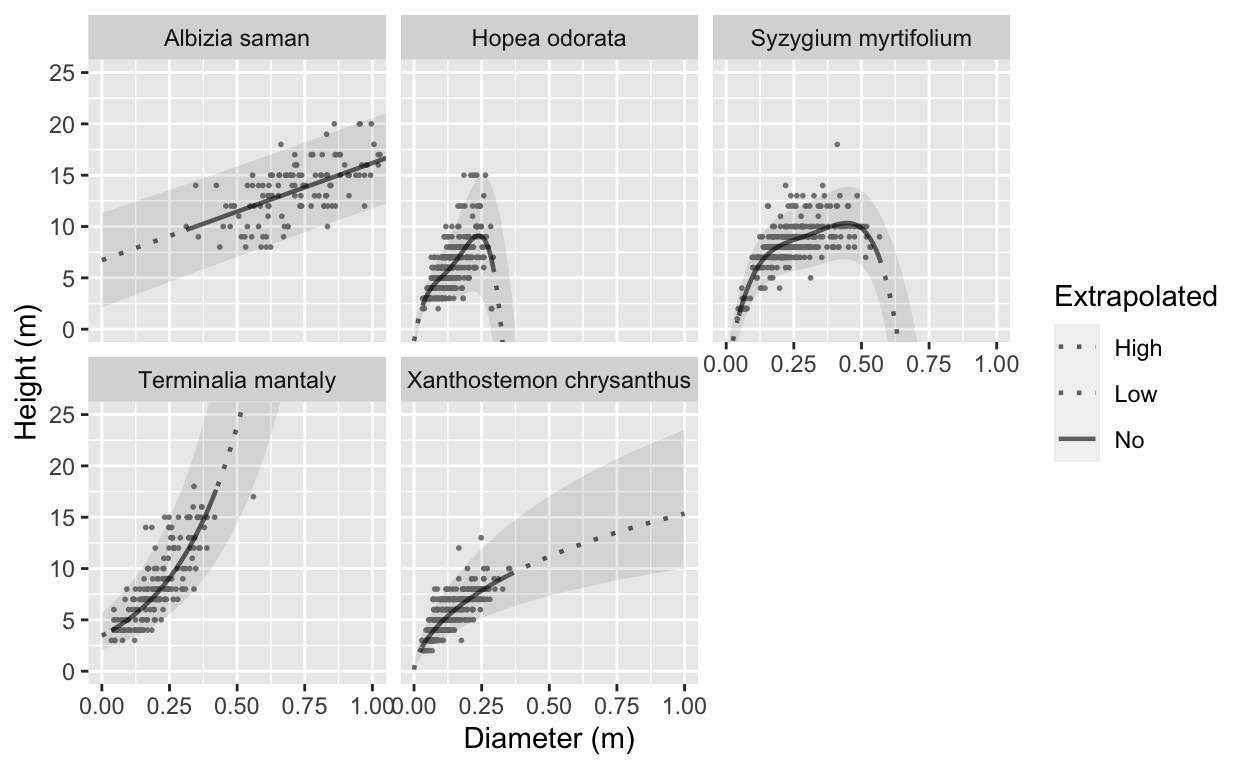
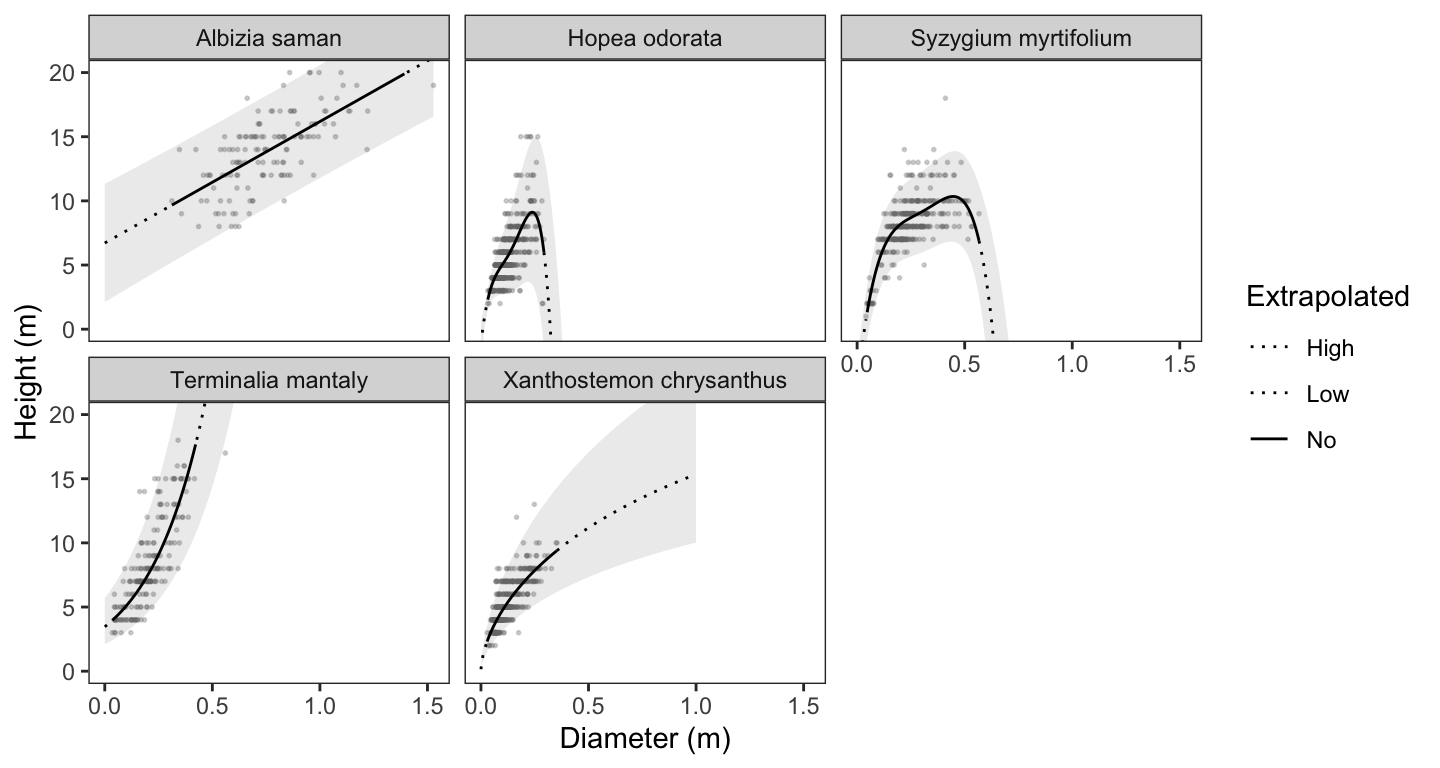
regenerate package documentation & pkgdown site

diff --git a/docs/articles/allometree.html b/docs/articles/allometree.html
@@ -145,8 +145,9 @@
 
 <span class="fu"><a href="https://ggplot2.tidyverse.org/reference/ggplot.html">ggplot</a></span>(<span class="no">urbantrees</span>, <span class="fu"><a href="https://ggplot2.tidyverse.org/reference/aes.html">aes</a></span>(<span class="no">diameter</span>, <span class="no">height</span>)) +
   <span class="fu"><a href="https://ggplot2.tidyverse.org/reference/facet_wrap.html">facet_wrap</a></span>(~ <span class="no">species</span>, <span class="kw">scales</span> <span class="kw">=</span> <span class="st">"free"</span>) +
-  <span class="fu"><a href="https://ggplot2.tidyverse.org/reference/geom_point.html">geom_point</a></span>()</pre></body></html></div>
-<p><img src="allometree_files/figure-html/load%20data-1.png" width="528" style="display: block; margin: auto;"></p>
+  <span class="fu"><a href="https://ggplot2.tidyverse.org/reference/geom_point.html">geom_point</a></span>(<span class="kw">size</span><span class="kw">=</span><span class="fl">0.35</span>, <span class="kw">alpha</span> <span class="kw">=</span> <span class="fl">0.3</span>, <span class="kw">color</span> <span class="kw">=</span> <span class="st">"grey50"</span>) +
+  <span class="fu"><a href="https://ggplot2.tidyverse.org/reference/ggtheme.html">theme_bw</a></span>() + <span class="fu"><a href="https://ggplot2.tidyverse.org/reference/theme.html">theme</a></span>(<span class="kw">panel.grid</span> <span class="kw">=</span> <span class="fu"><a href="https://ggplot2.tidyverse.org/reference/element.html">element_blank</a></span>())</pre></body></html></div>
+<p><img src="allometree_files/figure-html/load%20data-1.png" width="624" style="display: block; margin: auto;"></p>
 </div>
 <div id="allometric-equations-eqns_info" class="section level2">
 <h2 class="hasAnchor">
@@ -169,7 +170,8 @@
 <h2 class="hasAnchor">
 <a href="#single-species-models" class="anchor"></a>1. Single-species models</h2>
 <p>We can run <code><a href="../reference/ss_modelselect_multi.html">ss_modelselect_multi()</a></code> to select the best-fit model for each species in the dataset <code>urbantrees</code>. This can also be done for individual species using <code><a href="../reference/ss_modelselect.html">ss_modelselect()</a></code>. Note that you can also fit data to specified (i.e. pre-defined) equations, using the functions <code><a href="../reference/ss_modelfit.html">ss_modelfit()</a></code> and <code><a href="../reference/ss_modelfit_multi.html">ss_modelfit_multi()</a></code>. This can be done, for example, after the removal of outliers from the full dataset. See the vignette <a href="single-species_models.html">Single-species linear models</a> for a full demonstration.</p>
-<div class="sourceCode" id="cb3"><html><body><pre class="r"><span class="no">results</span> <span class="kw">&lt;-</span> <span class="fu"><a href="../reference/ss_modelselect_multi.html">ss_modelselect_multi</a></span>(<span class="no">urbantrees</span>, <span class="kw">species</span> <span class="kw">=</span> <span class="st">"species"</span>, <span class="co"># specify colname of species</span>
+<div class="sourceCode" id="cb3"><html><body><pre class="r"><span class="no">results</span> <span class="kw">&lt;-</span> <span class="fu"><a href="../reference/ss_modelselect_multi.html">ss_modelselect_multi</a></span>(<span class="no">urbantrees</span>,
+                                <span class="kw">species</span> <span class="kw">=</span> <span class="st">"species"</span>, <span class="co"># specify colname of species</span>
                                 <span class="kw">response</span> <span class="kw">=</span> <span class="st">"height"</span>, <span class="kw">predictor</span> <span class="kw">=</span> <span class="st">"diameter"</span>) <span class="co"># specify colnames of variables</span></pre></body></html></div>
 <p><code>results</code> is a list of 3 elements:</p>
 <ol style="list-style-type: decimal">
@@ -199,8 +201,9 @@
 <span class="co">#&gt; 4            3           18      0.2493  0.0615 0.6702 197</span>
 <span class="co">#&gt; 5            2           13      0.2123  0.0449 0.6137 418</span></pre></body></html></div>
 <p> </p>
-<p>We can simulate data across a range of diameter sizes for each species, and use their respective models to make predictions of tree height. The simulated data can also be extrapolated beyond the range used to fit the model, using the argument <code>extrapolate</code>:</p>
-<div class="sourceCode" id="cb5"><html><body><pre class="r"><span class="no">predictions_ss</span> <span class="kw">&lt;-</span> <span class="fu"><a href="../reference/ss_simulate.html">ss_simulate</a></span>(<span class="kw">ref_table</span> <span class="kw">=</span> <span class="no">results</span>$<span class="no">ss_models_info</span>, <span class="kw">models</span> <span class="kw">=</span> <span class="no">results</span>$<span class="no">ss_models</span>,
+<p>We can simulate data across a range of diameter sizes for each species, and use their respective models to make predictions of tree height. The simulated data can also be extrapolated beyond the range used to fit the model, using the argument <code>extrapolate</code>. In this example, we specify that predictions should be made between the range <code>0</code> to <code>1</code> metre:</p>
+<div class="sourceCode" id="cb5"><html><body><pre class="r"><span class="no">predictions_ss</span> <span class="kw">&lt;-</span> <span class="fu"><a href="../reference/ss_simulate.html">ss_simulate</a></span>(<span class="kw">ref_table</span> <span class="kw">=</span> <span class="no">results</span>$<span class="no">ss_models_info</span>,
+                              <span class="kw">models</span> <span class="kw">=</span> <span class="no">results</span>$<span class="no">ss_models</span>,
                               <span class="kw">extrapolate</span> <span class="kw">=</span> <span class="fu"><a href="https://rdrr.io/r/base/c.html">c</a></span>(<span class="fl">0</span>,<span class="fl">1</span>))
 <span class="fu"><a href="https://rdrr.io/r/utils/head.html">head</a></span>(<span class="no">predictions_ss</span>)
 <span class="co">#&gt; # A tibble: 6 x 6</span>
@@ -215,13 +218,44 @@
 <span class="co">#&gt; 6 Albizia saman     0.373 10.3   5.81  14.7 No</span></pre></body></html></div>
 <p> </p>
 <p><code>predictions_ss</code> is a dataframe of simulated data for the diameter size (<code>predictor</code>) for each <code>species</code>. Other columns include the predicted height (<code>fit</code>), the lower (<code>lwr</code>) and upper (<code>upr</code>) bounds of the prediction interval, as well as whether the height/diameter variables are <code>extrapolated</code> beyond the original data used to fit the model.</p>
+<p> </p>
+<p>Model predictions can be visualised alongside the original data using <code><a href="https://ggplot2.tidyverse.org/reference/ggplot.html">ggplot2::ggplot()</a></code>:</p>
+<div class="sourceCode" id="cb6"><html><body><pre class="r">
+<span class="fu"><a href="https://ggplot2.tidyverse.org/reference/ggplot.html">ggplot</a></span>() +
+  <span class="fu"><a href="https://ggplot2.tidyverse.org/reference/facet_wrap.html">facet_wrap</a></span>(~ <span class="no">species</span>)+
+
+  <span class="co"># raw data</span>
+  <span class="fu"><a href="https://ggplot2.tidyverse.org/reference/geom_point.html">geom_point</a></span>(<span class="kw">data</span> <span class="kw">=</span> <span class="no">urbantrees</span>,
+             <span class="fu"><a href="https://ggplot2.tidyverse.org/reference/aes.html">aes</a></span>(<span class="kw">x</span> <span class="kw">=</span> <span class="no">diameter</span>, <span class="kw">y</span> <span class="kw">=</span> <span class="no">height</span>),
+             <span class="kw">size</span><span class="kw">=</span><span class="fl">0.35</span>, <span class="kw">alpha</span> <span class="kw">=</span> <span class="fl">0.3</span>, <span class="kw">color</span> <span class="kw">=</span> <span class="st">"grey50"</span>) +
+
+  <span class="co"># prediction interval</span>
+  <span class="fu"><a href="https://ggplot2.tidyverse.org/reference/geom_ribbon.html">geom_ribbon</a></span>(<span class="kw">data</span> <span class="kw">=</span> <span class="no">predictions_ss</span>,
+              <span class="fu"><a href="https://ggplot2.tidyverse.org/reference/aes.html">aes</a></span>(<span class="kw">x</span> <span class="kw">=</span> <span class="no">predictor</span>, <span class="kw">ymin</span> <span class="kw">=</span> <span class="no">lwr</span>, <span class="kw">ymax</span> <span class="kw">=</span> <span class="no">upr</span>),
+              <span class="kw">alpha</span> <span class="kw">=</span> <span class="fl">0.10</span>) +
+
+  <span class="co"># regression line</span>
+  <span class="fu"><a href="https://ggplot2.tidyverse.org/reference/geom_path.html">geom_line</a></span>(<span class="kw">data</span> <span class="kw">=</span> <span class="no">predictions_ss</span>,
+            <span class="fu"><a href="https://ggplot2.tidyverse.org/reference/aes.html">aes</a></span>(<span class="kw">x</span> <span class="kw">=</span> <span class="no">predictor</span>, <span class="kw">y</span> <span class="kw">=</span> <span class="no">fit</span>, <span class="kw">lty</span> <span class="kw">=</span> <span class="no">extrapolated</span>)) +
+  <span class="fu"><a href="https://ggplot2.tidyverse.org/reference/scale_manual.html">scale_linetype_manual</a></span>(<span class="kw">values</span><span class="kw">=</span><span class="fu"><a href="https://rdrr.io/r/base/c.html">c</a></span>(<span class="st">"No"</span><span class="kw">=</span> <span class="fl">1</span> , <span class="st">"Low"</span> <span class="kw">=</span> <span class="fl">3</span>, <span class="st">"High"</span> <span class="kw">=</span> <span class="fl">3</span>),
+                        <span class="kw">name</span> <span class="kw">=</span> <span class="st">"Extrapolated"</span>) +
+
+  <span class="co"># axes</span>
+  <span class="fu"><a href="https://ggplot2.tidyverse.org/reference/labs.html">xlab</a></span>(<span class="st">"Diameter (m)"</span>) + <span class="fu"><a href="https://ggplot2.tidyverse.org/reference/labs.html">ylab</a></span>(<span class="st">"Height (m)"</span>) +
+  <span class="fu"><a href="https://ggplot2.tidyverse.org/reference/coord_cartesian.html">coord_cartesian</a></span>(<span class="kw">ylim</span><span class="kw">=</span><span class="fu"><a href="https://rdrr.io/r/base/c.html">c</a></span>(<span class="fl">0</span>, <span class="fu"><a href="https://rdrr.io/r/base/Extremes.html">max</a></span>(<span class="no">urbantrees</span>$<span class="no">height</span>)), <span class="co"># limit ranges</span>
+                  <span class="kw">xlim</span><span class="kw">=</span> <span class="fu"><a href="https://rdrr.io/r/base/c.html">c</a></span>(<span class="fl">0</span>, <span class="fu"><a href="https://rdrr.io/r/base/Extremes.html">max</a></span>(<span class="no">predictions_ss</span>$<span class="no">predictor</span>))) +
+
+  <span class="fu"><a href="https://ggplot2.tidyverse.org/reference/ggtheme.html">theme_bw</a></span>() + <span class="fu"><a href="https://ggplot2.tidyverse.org/reference/theme.html">theme</a></span>(<span class="kw">panel.grid</span> <span class="kw">=</span> <span class="fu"><a href="https://ggplot2.tidyverse.org/reference/element.html">element_blank</a></span>())</pre></body></html></div>
+<p><img src="allometree_files/figure-html/single-species_model%20curves-1.png" width="720" style="display: block; margin: auto;"></p>
 <hr>
 </div>
 <div id="mixed-effects-model" class="section level2">
 <h2 class="hasAnchor">
 <a href="#mixed-effects-model" class="anchor"></a>2. Mixed-effects model</h2>
-<p>Alternatively, the <code>urbantrees</code> data can be fit to a linear mixed-effects model with ‘species’ specified as the random effect, using the <code><a href="https://rdrr.io/pkg/lme4/man/lmer.html">lme4::lmer</a></code> function under the hood.</p>
-<div class="sourceCode" id="cb6"><html><body><pre class="r"><span class="no">results</span> <span class="kw">&lt;-</span> <span class="fu"><a href="../reference/mix_modelselect.html">mix_modelselect</a></span>(<span class="no">urbantrees</span>)</pre></body></html></div>
+<p>Alternatively, the full dataset can be fit to a linear mixed-effects model with ‘species’ specified as the random effect, using the <code><a href="https://rdrr.io/pkg/lme4/man/lmer.html">lme4::lmer</a></code> function under the hood.</p>
+<div class="sourceCode" id="cb7"><html><body><pre class="r"><span class="no">results</span> <span class="kw">&lt;-</span> <span class="fu"><a href="../reference/mix_modelselect.html">mix_modelselect</a></span>(<span class="no">urbantrees</span>,
+                           <span class="kw">species</span> <span class="kw">=</span> <span class="st">"species"</span>,
+                           <span class="kw">response</span> <span class="kw">=</span> <span class="st">"height"</span>, <span class="kw">predictor</span> <span class="kw">=</span> <span class="st">"diameter"</span>)</pre></body></html></div>
 <p><code>results</code> is a list of 5 elements:</p>
 <ol style="list-style-type: decimal">
 <li>Model selection table showing all the types of mixed-effects models considered, ranked in order of ascending AICc.</li>
@@ -231,26 +265,47 @@
 <li>Warning messages, if any, spit from the models.</li>
 </ol>
 <p> </p>
-<p>Likewise, we can simulate data across a range of diameter sizes for each species, and make predictions of tree height. Extrapolation is also possible using the argument <code>extrapolate</code>:</p>
-<div class="sourceCode" id="cb7"><html><body><pre class="r"><span class="no">predictions_mix</span> <span class="kw">&lt;-</span> <span class="fu"><a href="../reference/mix_simulate.html">mix_simulate</a></span>(<span class="kw">data</span> <span class="kw">=</span> <span class="no">urbantrees</span>,
+<p>Simulations can likewise be performed across a range of diameter sizes for each species, and extrapolated beyond the range used to fit the model:</p>
+<div class="sourceCode" id="cb8"><html><body><pre class="r"><span class="no">predictions_mix</span> <span class="kw">&lt;-</span> <span class="fu"><a href="../reference/mix_simulate.html">mix_simulate</a></span>(<span class="kw">data</span> <span class="kw">=</span> <span class="no">urbantrees</span>,
                                 <span class="kw">modelselect</span> <span class="kw">=</span> <span class="no">results</span>,
-                                <span class="kw">extrapolate</span> <span class="kw">=</span> <span class="fu"><a href="https://rdrr.io/r/base/c.html">c</a></span>(<span class="fl">0</span>, <span class="fl">4</span>))
+                                <span class="kw">extrapolate</span> <span class="kw">=</span> <span class="fu"><a href="https://rdrr.io/r/base/c.html">c</a></span>(<span class="fl">0</span>, <span class="fl">1</span>))
 <span class="fu"><a href="https://rdrr.io/r/utils/head.html">head</a></span>(<span class="no">predictions_mix</span>)
 <span class="co">#&gt;         species   predictor extrapolated       fit       upr       lwr</span>
 <span class="co">#&gt; 1 Albizia saman 0.000000000          Low 0.0000000 0.0000000 0.0000000</span>
-<span class="co">#&gt; 2 Albizia saman 0.003150946          Low 0.6395136 0.9450479 0.4476179</span>
-<span class="co">#&gt; 3 Albizia saman 0.006301893          Low 0.9741185 1.3819811 0.6998881</span>
-<span class="co">#&gt; 4 Albizia saman 0.009452839          Low 1.2099182 1.7612521 0.8439824</span>
-<span class="co">#&gt; 5 Albizia saman 0.012603785          Low 1.4771126 2.0870375 1.0430659</span>
-<span class="co">#&gt; 6 Albizia saman 0.015754732          Low 1.6544450 2.3611229 1.1914258</span></pre></body></html></div>
-</div>
-<div id="visualisations" class="section level2">
-<h2 class="hasAnchor">
-<a href="#visualisations" class="anchor"></a>Visualisations</h2>
-<p>Single-species models:</p>
-<p><img src="allometree_files/figure-html/single-species_model%20curves-1.png" width="624" style="display: block; margin: auto;"></p>
-<p>Mixed-effects models:</p>
+<span class="co">#&gt; 2 Albizia saman 0.003150946          Low 0.6413625 0.9757844 0.4363895</span>
+<span class="co">#&gt; 3 Albizia saman 0.006301893          Low 0.9651826 1.4488660 0.6662864</span>
+<span class="co">#&gt; 4 Albizia saman 0.009452839          Low 1.2207339 1.7455064 0.8789716</span>
+<span class="co">#&gt; 5 Albizia saman 0.012603785          Low 1.4718371 2.0967789 1.0479212</span>
+<span class="co">#&gt; 6 Albizia saman 0.015754732          Low 1.6784987 2.3589217 1.2100775</span></pre></body></html></div>
+<p>Model predictions can be visualised alongside the original data using <code><a href="https://ggplot2.tidyverse.org/reference/ggplot.html">ggplot2::ggplot()</a></code>:</p>
+<div class="sourceCode" id="cb9"><html><body><pre class="r">
+<span class="fu"><a href="https://ggplot2.tidyverse.org/reference/ggplot.html">ggplot</a></span>() +
+  <span class="fu"><a href="https://ggplot2.tidyverse.org/reference/facet_wrap.html">facet_wrap</a></span>(~ <span class="no">species</span>)+
+
+  <span class="co"># raw data</span>
+  <span class="fu"><a href="https://ggplot2.tidyverse.org/reference/geom_point.html">geom_point</a></span>(<span class="kw">data</span> <span class="kw">=</span> <span class="no">urbantrees</span>,
+             <span class="fu"><a href="https://ggplot2.tidyverse.org/reference/aes.html">aes</a></span>(<span class="kw">x</span> <span class="kw">=</span> <span class="no">diameter</span>, <span class="kw">y</span> <span class="kw">=</span> <span class="no">height</span>),
+             <span class="kw">size</span><span class="kw">=</span><span class="fl">0.35</span>, <span class="kw">alpha</span> <span class="kw">=</span> <span class="fl">0.3</span>, <span class="kw">color</span> <span class="kw">=</span> <span class="st">"grey50"</span>) +
+
+  <span class="co"># prediction interval</span>
+  <span class="fu"><a href="https://ggplot2.tidyverse.org/reference/geom_ribbon.html">geom_ribbon</a></span>(<span class="kw">data</span> <span class="kw">=</span> <span class="no">predictions_mix</span>,
+              <span class="fu"><a href="https://ggplot2.tidyverse.org/reference/aes.html">aes</a></span>(<span class="kw">x</span> <span class="kw">=</span> <span class="no">predictor</span>, <span class="kw">ymin</span> <span class="kw">=</span> <span class="no">lwr</span>, <span class="kw">ymax</span> <span class="kw">=</span> <span class="no">upr</span>),
+              <span class="kw">alpha</span> <span class="kw">=</span> <span class="fl">0.10</span>) +
+
+  <span class="co"># regression line</span>
+  <span class="fu"><a href="https://ggplot2.tidyverse.org/reference/geom_path.html">geom_line</a></span>(<span class="kw">data</span> <span class="kw">=</span> <span class="no">predictions_mix</span>,
+            <span class="fu"><a href="https://ggplot2.tidyverse.org/reference/aes.html">aes</a></span>(<span class="kw">x</span> <span class="kw">=</span> <span class="no">predictor</span>, <span class="kw">y</span> <span class="kw">=</span> <span class="no">fit</span>, <span class="kw">lty</span> <span class="kw">=</span> <span class="no">extrapolated</span>)) +
+  <span class="fu"><a href="https://ggplot2.tidyverse.org/reference/scale_manual.html">scale_linetype_manual</a></span>(<span class="kw">values</span><span class="kw">=</span><span class="fu"><a href="https://rdrr.io/r/base/c.html">c</a></span>(<span class="st">"No"</span><span class="kw">=</span> <span class="fl">1</span> , <span class="st">"Low"</span> <span class="kw">=</span> <span class="fl">3</span>, <span class="st">"High"</span> <span class="kw">=</span> <span class="fl">3</span>),
+                        <span class="kw">name</span> <span class="kw">=</span> <span class="st">"Extrapolated"</span>) +
+
+  <span class="co"># axes</span>
+  <span class="fu"><a href="https://ggplot2.tidyverse.org/reference/labs.html">xlab</a></span>(<span class="st">"Diameter (m)"</span>) + <span class="fu"><a href="https://ggplot2.tidyverse.org/reference/labs.html">ylab</a></span>(<span class="st">"Height (m)"</span>) +
+  <span class="fu"><a href="https://ggplot2.tidyverse.org/reference/coord_cartesian.html">coord_cartesian</a></span>(<span class="kw">ylim</span><span class="kw">=</span><span class="fu"><a href="https://rdrr.io/r/base/c.html">c</a></span>(<span class="fl">0</span>, <span class="fu"><a href="https://rdrr.io/r/base/Extremes.html">max</a></span>(<span class="no">urbantrees</span>$<span class="no">height</span>)), <span class="co"># limit ranges</span>
+                  <span class="kw">xlim</span><span class="kw">=</span> <span class="fu"><a href="https://rdrr.io/r/base/c.html">c</a></span>(<span class="fl">0</span>, <span class="fu"><a href="https://rdrr.io/r/base/Extremes.html">max</a></span>(<span class="no">predictions_mix</span>$<span class="no">predictor</span>))) +
+
+  <span class="fu"><a href="https://ggplot2.tidyverse.org/reference/ggtheme.html">theme_bw</a></span>() + <span class="fu"><a href="https://ggplot2.tidyverse.org/reference/theme.html">theme</a></span>(<span class="kw">panel.grid</span> <span class="kw">=</span> <span class="fu"><a href="https://ggplot2.tidyverse.org/reference/element.html">element_blank</a></span>())</pre></body></html></div>
 <p><img src="allometree_files/figure-html/mixed-effects%20model%20curves-1.png" width="624" style="display: block; margin: auto;"></p>
+<p> </p>
 <hr>
 </div>
 <div id="references" class="section level2">

diff --git a/docs/index.html b/docs/index.html
@@ -117,25 +117,47 @@
 <a href="#setup" class="anchor"></a>Setup</h2>
 <div class="sourceCode" id="cb2"><pre class="r"><span class="fu"><a href="https://rdrr.io/r/base/library.html">library</a></span>(<span class="no">allometree</span>)</pre></div>
 </div>
-<div id="example" class="section level2">
+<div id="examples" class="section level2">
 <h2 class="hasAnchor">
-<a href="#example" class="anchor"></a>Example</h2>
+<a href="#examples" class="anchor"></a>Examples</h2>
 <p>Allometric equations in this package have been used to predict relationships between parameters related tree size and structure, such as age, height, trunk diameter, crown height, crown diameter, leaf area, etc. They are foundational to other models that estimate the benefits and hazards associated with trees as they mature and grow in size. See the vignette ‘<a href="articles/allometree.html">Get started with allometree</a>’ for a full description of example datasets and allometric equations.</p>
 <p>Let’s develop models to predict tree <em>height</em> from trunk <em>diameter</em> for five species in our example dataset <code><a href="https://rdrr.io/r/utils/data.html">data(urbantrees)</a></code>:</p>
 <p><img src="reference/figures/urbantrees-1.png" style="display: block; margin: auto;"></p>
 <p> </p>
-<p>One method is to develop allometric models separately for each species, i.e., <a href="articles/single-species_models.html">single-species linear models</a>. We can select the best-fit equation for each species in the dataset, or fit data to specified (i.e. pre-defined) equations, for example, after the removal of outliers. The example below selects the best-fit equation for each species in <code>urbantrees</code>:</p>
-<div class="sourceCode" id="cb3"><pre class="r"><span class="no">results</span> <span class="kw">&lt;-</span> <span class="fu"><a href="reference/ss_modelselect_multi.html">ss_modelselect_multi</a></span>(<span class="no">urbantrees</span>, <span class="kw">species</span> <span class="kw">=</span> <span class="st">"species"</span>, <span class="co"># specify colname of species</span>
+<div id="single-species-models" class="section level3">
+<h3 class="hasAnchor">
+<a href="#single-species-models" class="anchor"></a>Single-species models</h3>
+<p>One method is to develop allometric models separately for each species (<a href="articles/single-species_models.html">single-species models</a>). We can select the best-fit equation for each species in the dataset, or fit data to specified (i.e. pre-defined) equations, for example, after the removal of outliers. The example below selects the best-fit equation for each species in <code>urbantrees</code>:</p>
+<div class="sourceCode" id="cb3"><pre class="r"><span class="no">results</span> <span class="kw">&lt;-</span> <span class="fu"><a href="reference/ss_modelselect_multi.html">ss_modelselect_multi</a></span>(<span class="no">urbantrees</span>,
+                                <span class="kw">species</span> <span class="kw">=</span> <span class="st">"species"</span>, <span class="co"># specify colname of species</span>
                                 <span class="kw">response</span> <span class="kw">=</span> <span class="st">"height"</span>, <span class="kw">predictor</span> <span class="kw">=</span> <span class="st">"diameter"</span>) <span class="co"># specify colnames of variables</span></pre></div>
 <p> </p>
-<p>We can simulate data across a range of diameter sizes for each species, and use their respective models to make predictions of tree height. The simulated data can also be extrapolated beyond the range used to fit the model:</p>
-<div class="sourceCode" id="cb4"><pre class="r"><span class="no">predictions</span> <span class="kw">&lt;-</span> <span class="fu"><a href="reference/ss_simulate.html">ss_simulate</a></span>(<span class="kw">ref_table</span> <span class="kw">=</span> <span class="no">results</span>$<span class="no">ss_models_info</span>, <span class="kw">models</span> <span class="kw">=</span> <span class="no">results</span>$<span class="no">ss_models</span>,
-                           <span class="kw">extrapolate</span> <span class="kw">=</span> <span class="fu"><a href="https://rdrr.io/r/base/c.html">c</a></span>(<span class="fl">0</span>,<span class="fl">1</span>)) <span class="co"># diameter from 0 to 1 m</span></pre></div>
+<p>We can simulate data across a range of diameter sizes for each species, and use their respective models to make predictions of tree height. The simulated data can also be extrapolated beyond the range used to fit the model. In this example, we specify that predictions should be made between the range <code>0</code> to <code>1</code> metre:</p>
+<div class="sourceCode" id="cb4"><pre class="r"><span class="no">predictions_ss</span> <span class="kw">&lt;-</span> <span class="fu"><a href="reference/ss_simulate.html">ss_simulate</a></span>(<span class="kw">ref_table</span> <span class="kw">=</span> <span class="no">results</span>$<span class="no">ss_models_info</span>,
+                              <span class="kw">models</span> <span class="kw">=</span> <span class="no">results</span>$<span class="no">ss_models</span>,
+                              <span class="kw">extrapolate</span> <span class="kw">=</span> <span class="fu"><a href="https://rdrr.io/r/base/c.html">c</a></span>(<span class="fl">0</span>,<span class="fl">1</span>))</pre></div>
+</div>
+<div id="mixed-effects-model" class="section level3">
+<h3 class="hasAnchor">
+<a href="#mixed-effects-model" class="anchor"></a>Mixed-effects model</h3>
+<p>Alternatively, the full dataset can be fit to a linear mixed-effects model with ‘species’ specified as the random effect, using the <code><a href="https://rdrr.io/pkg/lme4/man/lmer.html">lme4::lmer</a></code> function under the hood:</p>
+<div class="sourceCode" id="cb5"><pre class="r"><span class="no">results</span> <span class="kw">&lt;-</span> <span class="fu"><a href="reference/mix_modelselect.html">mix_modelselect</a></span>(<span class="no">urbantrees</span>,
+                           <span class="kw">species</span> <span class="kw">=</span> <span class="st">"species"</span>,
+                           <span class="kw">response</span> <span class="kw">=</span> <span class="st">"height"</span>, <span class="kw">predictor</span> <span class="kw">=</span> <span class="st">"diameter"</span>)</pre></div>
+<p>Simulations can likewise be performed across a range of diameter sizes for each species, and extrapolated beyond the range used to fit the model:</p>
+<div class="sourceCode" id="cb6"><pre class="r"><span class="no">predictions_mix</span> <span class="kw">&lt;-</span> <span class="fu"><a href="reference/mix_simulate.html">mix_simulate</a></span>(<span class="kw">data</span> <span class="kw">=</span> <span class="no">urbantrees</span>,
+                                <span class="kw">modelselect</span> <span class="kw">=</span> <span class="no">results</span>,
+                                <span class="kw">extrapolate</span> <span class="kw">=</span> <span class="fu"><a href="https://rdrr.io/r/base/c.html">c</a></span>(<span class="fl">0</span>, <span class="fl">1</span>))</pre></div>
 <p> </p>
+</div>
+</div>
+<div id="visualisations" class="section level2">
+<h2 class="hasAnchor">
+<a href="#visualisations" class="anchor"></a>Visualisations</h2>
 <p>Model predictions can be visualised alongside the original data using <code><a href="https://ggplot2.tidyverse.org/reference/ggplot.html">ggplot2::ggplot()</a></code>:</p>
 <p><img src="reference/figures/single-species_model_curves-1.png" style="display: block; margin: auto;"></p>
 <p> </p>
-<p>These allometric relationships can then be interpreted in conjunction with information on the biology and growth (e.g. environmental and management) conditions associated with the trees.</p>
+<p>These allometric relationships can then be interpreted according to the types of variables modelled, and in conjunction with information on the biology and growth (e.g. environmental and management) conditions associated with the trees.</p>
 </div>
 </div>
   </div>

diff --git a/docs/reference/mix_simulate.html b/docs/reference/mix_simulate.html
@@ -47,8 +47,9 @@
 
 
 <meta property="og:title" content="Make predictions on simulated data using mixed-effects model — mix_simulate" />
-<meta property="og:description" content="Data is simulated for each species (if multiple species are present) based on their respective ranges of the
-predictor variable, which can be extrapolated to values defined by the user. The mixed-effects model is used
+<meta property="og:description" content="Data is generated for each species based on their respective ranges of the
+predictor variable, which can be extrapolated to values defined by the user
+(using the helper function generate_x()). The mixed-effects model is used
 to predict values for the response variable, as well as it's prediction interval.
 Necessary bias-corrections are made if the mixed-effects model has a transformed response variable." />
 <meta property="og:image" content="https://xp-song.github.io/allometree/reference/figures/logo.png" />
@@ -154,8 +155,9 @@ Necessary bias-corrections are made if the mixed-effects model has a transformed
     </div>
 
     <div class="ref-description">
-    <p>Data is simulated for each species (if multiple species are present) based on their respective ranges of the
-predictor variable, which can be extrapolated to values defined by the user. The mixed-effects model is used
+    <p>Data is generated for each species based on their respective ranges of the
+predictor variable, which can be extrapolated to values defined by the user
+(using the helper function <code><a href='generate_x.html'>generate_x()</a></code>). The mixed-effects model is used
 to predict values for the response variable, as well as it's prediction interval.
 Necessary bias-corrections are made if the mixed-effects model has a transformed response variable.</p>
     </div>
@@ -199,7 +201,7 @@ extrapolation.</p></td>
     </tr>
     <tr>
       <th>length.out</th>
-      <td><p>Number of new X values to generate for each species. Defaults to 100. Set a higher value for greater resolution at the cost of computational time.</p></td>
+      <td><p>Number of new predictor values to generate for each species. Defaults to 100. Set a higher value for greater resolution at the cost of computational time.</p></td>
     </tr>
     <tr>
       <th>stat</th>
@@ -231,10 +233,23 @@ extrapolation.</p></td>
 
     <h2 class="hasAnchor" id="value"><a class="anchor" href="#value"></a>Value</h2>
 
-    <p>Dataframe containing data generated from <code><a href='generate_x.html'>generate_x()</a></code>, and their predictions (with intervals).</p>
+    <p>A dataframe with columns:</p><dl'>
+<dt>species</dt><dd><p>Name of tree species.</p></dd>
+<dt>predictor</dt><dd><p>Variable used to make predictions.</p></dd>
+<dt>fit</dt><dd><p>Predicted value.</p></dd>
+<dt>lwr</dt><dd><p>Lower bound of the prediction interval, based on the input argument <code>level</code>.</p></dd>
+<dt>upr</dt><dd><p>Upper bound of the prediction interval, based on the input argument <code>level</code>.</p></dd>
+<dt>extrapolated</dt><dd><p>Indicates whether the predictions are based on
+extrapolated values. Either 'High', 'Low', or 'No' (not extrapolated).</p></dd> 
+</dl>
+
     <h2 class="hasAnchor" id="see-also"><a class="anchor" href="#see-also"></a>See also</h2>
 
-    <div class='dont-index'><p><code><a href='mix_modelselect.html'>mix_modelselect()</a></code>, <code><a href='generate_x.html'>generate_x()</a></code>, <code><a href='https://rdrr.io/pkg/merTools/man/predictInterval.html'>merTools::predictInterval()</a></code></p></div>
+    <div class='dont-index'><p><code><a href='mix_modelselect.html'>mix_modelselect()</a></code> to fit a linear mixed-effects model across all species.</p>
+<p><code><a href='generate_x.html'>generate_x()</a></code> to generate new values for each species in a dataset.</p>
+<p><code><a href='https://rdrr.io/pkg/merTools/man/predictInterval.html'>merTools::predictInterval()</a></code> to make predictions from models fit with the <code>lme4</code> package.</p>
+<p>Other mixed-effects model functions: 
+<code><a href='mix_modelselect.html'>mix_modelselect</a>()</code></p></div>
 
     <h2 class="hasAnchor" id="examples"><a class="anchor" href="#examples"></a>Examples</h2>
     <pre class="examples"><div class='input'><span class='fu'><a href='https://rdrr.io/r/utils/data.html'>data</a></span>(<span class='no'>urbantrees</span>)

diff --git a/docs/reference/mix_modelselect.html b/docs/reference/mix_modelselect.html
@@ -194,7 +194,7 @@ Defaults to <code>diameter</code>.</p></td>
     <p>A list of 5 elements:</p><dl'>
 <dt>models_rank</dt><dd><p>A model selection table of all the types of mixed-effects models considered,
 ranked in order of ascending Aikake's Information Criterion corrected for small sample sizes (AICc).
-Model details can be found in <code><a href='eqns_info.html'>?eqns_info</a></code> and data(eqns_info).</p></dd>
+Model details can be found in <code><a href='eqns_info.html'>?eqns_info</a></code> and <code><a href='https://rdrr.io/r/utils/data.html'>data(eqns_info)</a></code>.</p></dd>
 <dt>best_model</dt><dd><p>The best-fit model object.</p></dd>
 <dt>R2</dt><dd><p>The conditional and marginal pseudo-\(R^2\) of the best-fit model.</p></dd>
 <dt>CF</dt><dd><p>Correction factor used to adjust predicted values if response variable is transformed
@@ -204,12 +204,17 @@ These usually indicate failure of model convergence.</p></dd>
 
 </dl>
 
+    <h2 class="hasAnchor" id="see-also"><a class="anchor" href="#see-also"></a>See also</h2>
+
+    <div class='dont-index'><p>Other mixed-effects model functions: 
+<code><a href='mix_simulate.html'>mix_simulate</a>()</code></p></div>
 
     <h2 class="hasAnchor" id="examples"><a class="anchor" href="#examples"></a>Examples</h2>
     <pre class="examples"><div class='input'><span class='fu'><a href='https://rdrr.io/r/utils/data.html'>data</a></span>(<span class='no'>urbantrees</span>)
 
 <span class='kw'>if</span> (<span class='fl'>FALSE</span>) {
 <span class='fu'>mix_modelselect</span>(<span class='kw'>data</span> <span class='kw'>=</span> <span class='no'>urbantrees</span>,
+                <span class='kw'>species</span> <span class='kw'>=</span> <span class='st'>"species"</span>,
                 <span class='kw'>response</span> <span class='kw'>=</span> <span class='st'>"height"</span>, <span class='kw'>predictor</span> <span class='kw'>=</span> <span class='st'>"diameter"</span>)
 }</div></pre>
   </div>

diff --git a/README.md b/README.md
@@ -57,16 +57,18 @@ five species in our example dataset `data(urbantrees)`:
 
  
 
-One method is to develop allometric models separately for each species,
-i.e., [single-species linear
-models](https://xp-song.github.io/allometree/articles/single-species_models.html).
-We can select the best-fit equation for each species in the dataset, or
-fit data to specified (i.e. pre-defined) equations, for example, after
-the removal of outliers. The example below selects the best-fit equation
-for each species in `urbantrees`:
+### Single-species models
+
+One method is to develop allometric models separately for each species
+([single-species models](articles/single-species_models.html)). We can
+select the best-fit equation for each species in the dataset, or fit
+data to specified (i.e. pre-defined) equations, for example, after the
+removal of outliers. The example below selects the best-fit equation for
+each species in `urbantrees`:
 
 ``` r
-results <- ss_modelselect_multi(urbantrees, species = "species", # specify colname of species
+results <- ss_modelselect_multi(urbantrees, 
+                                species = "species", # specify colname of species
                                 response = "height", predictor = "diameter") # specify colnames of variables
 ```
 
@@ -75,14 +77,40 @@ results <- ss_modelselect_multi(urbantrees, species = "species", # specify colna
 We can simulate data across a range of diameter sizes for each species,
 and use their respective models to make predictions of tree height. The
 simulated data can also be extrapolated beyond the range used to fit the
+model. In this example, we specify that predictions should be made
+between the range `0` to `1` metre:
+
+``` r
+predictions_ss <- ss_simulate(ref_table = results$ss_models_info, 
+                              models = results$ss_models, 
+                              extrapolate = c(0,1))
+```
+
+### Mixed-effects model
+
+Alternatively, the full dataset can be fit to a linear mixed-effects
+model with ‘species’ specified as the random effect, using the
+`lme4::lmer` function under the hood:
+
+``` r
+results <- mix_modelselect(urbantrees, 
+                           species = "species", 
+                           response = "height", predictor = "diameter")
+```
+
+Simulations can likewise be performed across a range of diameter sizes
+for each species, and extrapolated beyond the range used to fit the
 model:
 
 ``` r
-predictions <- ss_simulate(ref_table = results$ss_models_info, models = results$ss_models, 
-                           extrapolate = c(0,1)) # diameter from 0 to 1 m
+predictions_mix <- mix_simulate(data = urbantrees, 
+                                modelselect = results,
+                                extrapolate = c(0, 1))
 ```
 
  
+
+## Visualisations
 
 Model predictions can be visualised alongside the original data using
 `ggplot2::ggplot()`:
@@ -91,6 +119,7 @@ Model predictions can be visualised alongside the original data using
 
  
 
-These allometric relationships can then be interpreted in conjunction
-with information on the biology and growth (e.g. environmental and
-management) conditions associated with the trees.
+These allometric relationships can then be interpreted according to the
+types of variables modelled, and in conjunction with information on the
+biology and growth (e.g. environmental and management) conditions
+associated with the trees.
